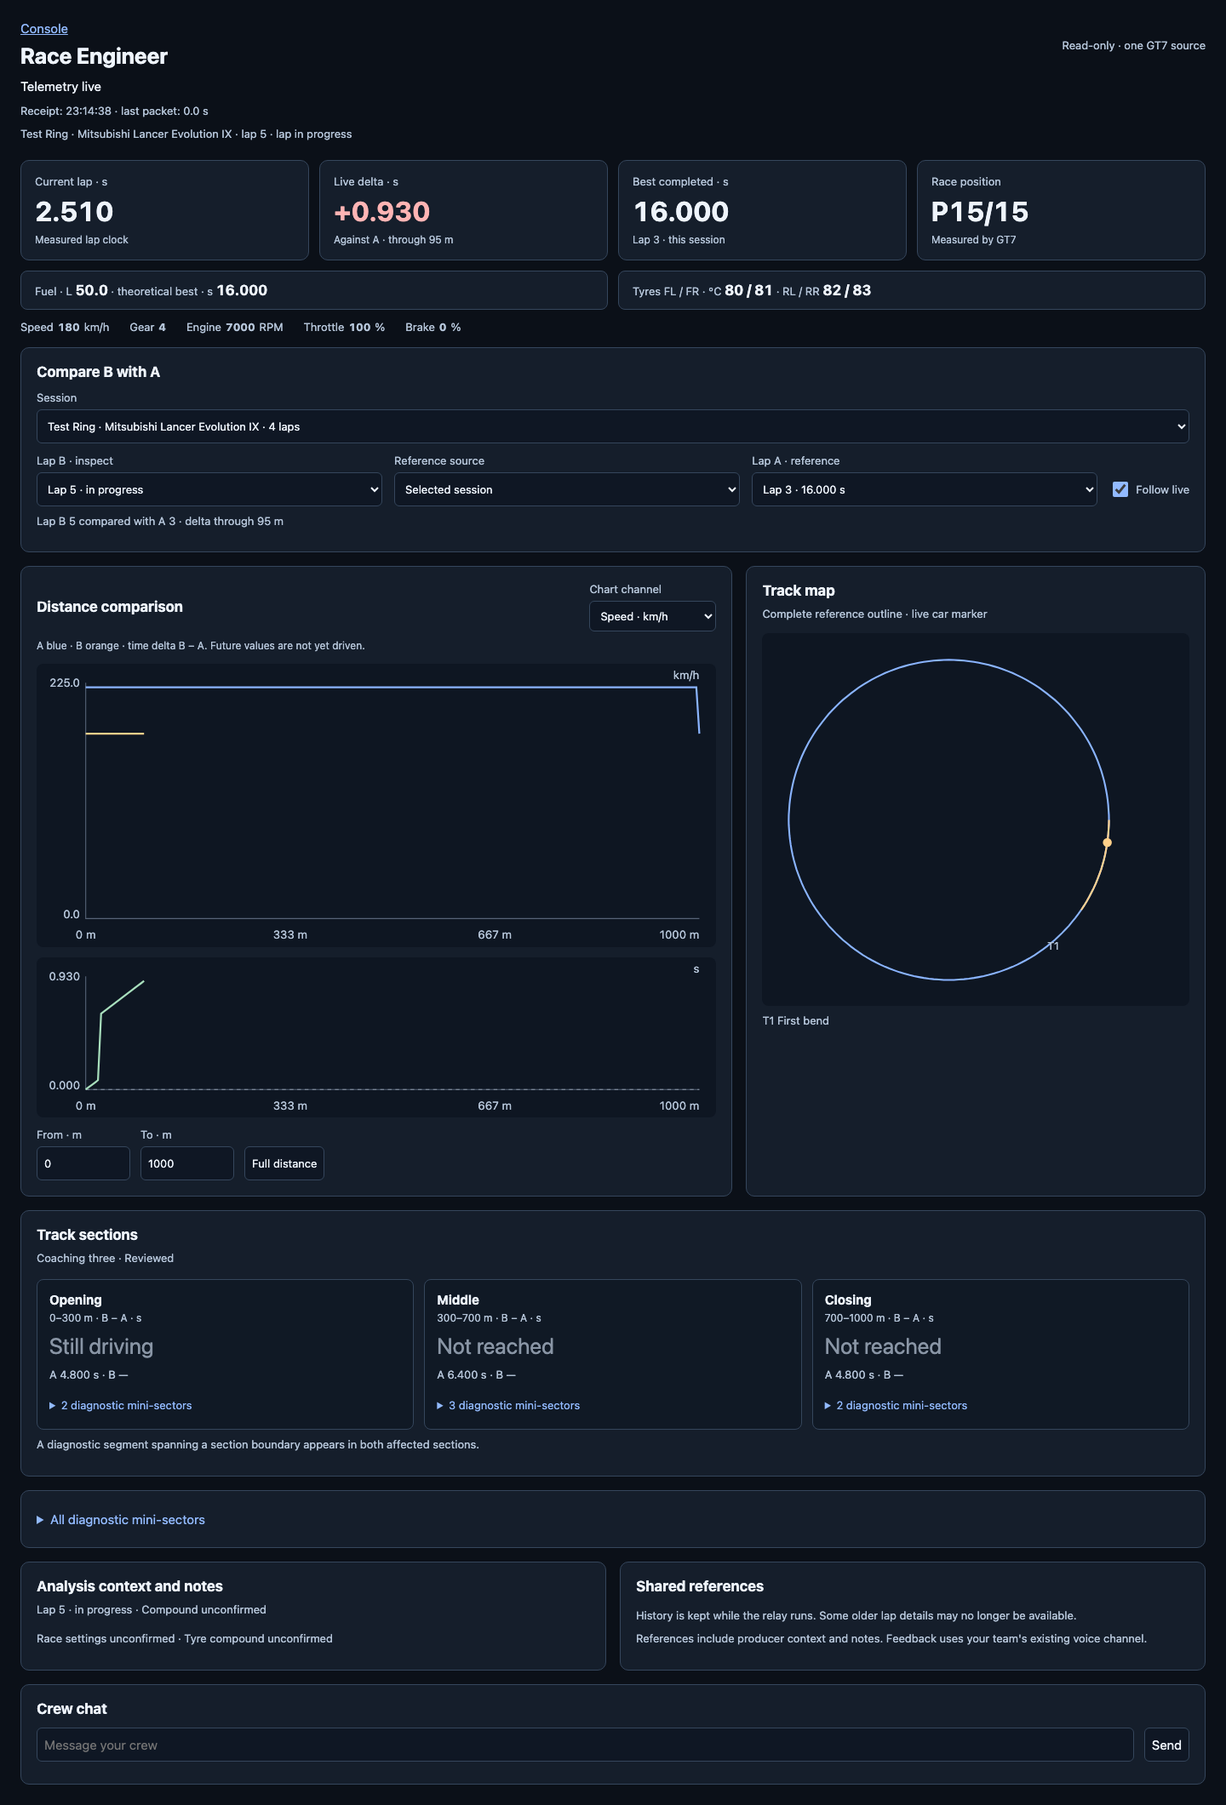
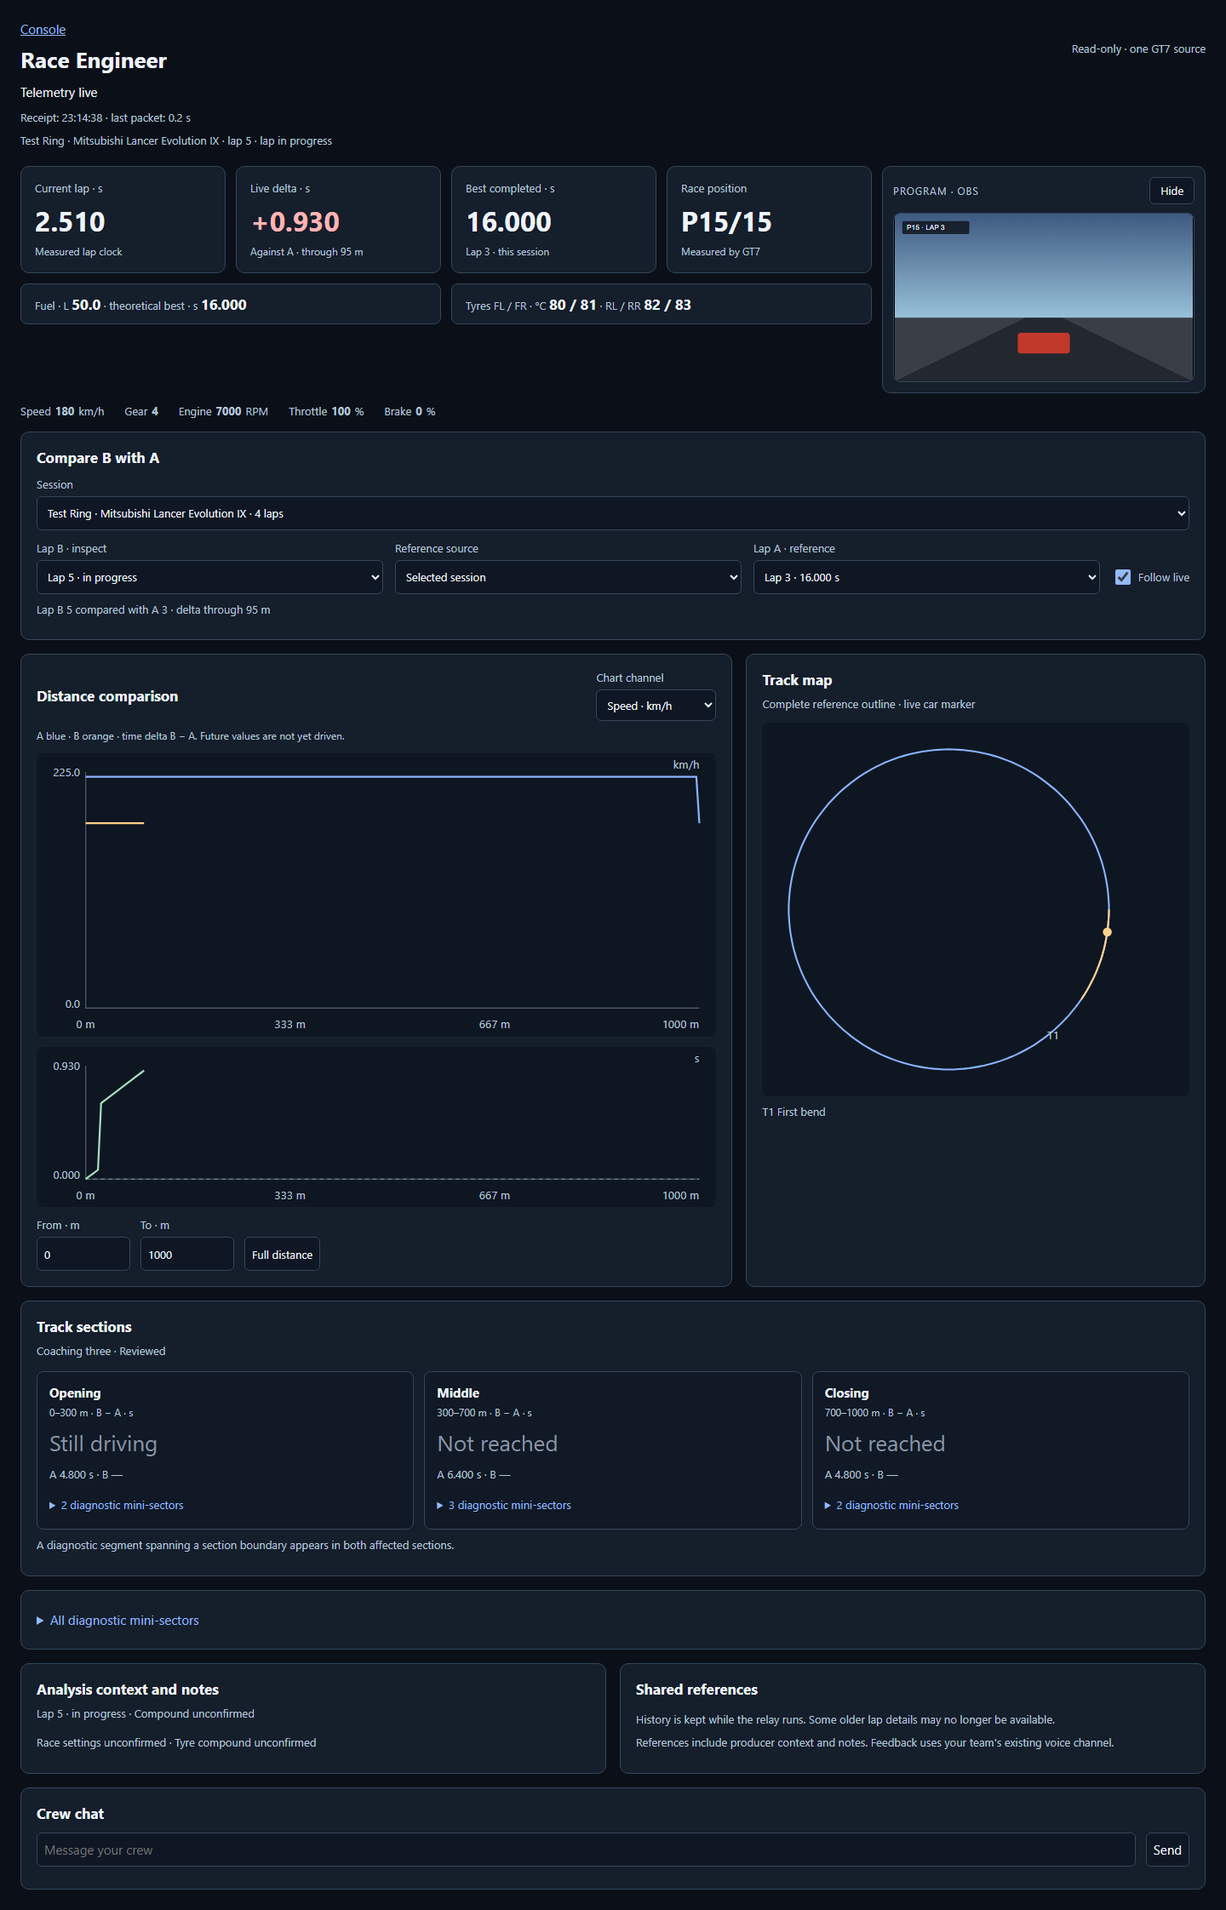
feat(console): show the OBS program still on the Race Engineer desk
A Program tile beside the live instruments polls /cockpit/program (any
console role), the still Race Control already shows. Hide folds it to a
bar and is remembered per browser; polling runs only while the tile is
open, the tab is visible and access holds, with one self-rescheduling
probe whose generation drops a request in flight on Hide.

diff --git a/src/console/race-engineer.html b/src/console/race-engineer.html
@@ -5,13 +5,14 @@
 @media(max-width:1100px){main{padding:18px}.tile{padding:14px}.tile strong{font-size:28px}.compare{grid-template-columns:1fr 1fr 1fr}.check{grid-column:1/-1}.plots{grid-template-columns:1.5fr 1fr}.plot-head{flex-wrap:wrap}.section{padding:12px}}
 @media(max-width:600px){main{padding:12px}header{align-items:start;flex-wrap:wrap;gap:8px}h1{font-size:23px}.headline{grid-template-columns:1fr 1fr;gap:8px;margin-top:14px}.headline .tile>span{min-height:2.4em;line-height:1.2}.tile strong{font-size:28px}.tile{padding:12px}.support{grid-template-columns:1fr;gap:8px}.inputs{gap:12px;font-size:12px}.card{padding:12px}.compare{grid-template-columns:1fr;gap:10px}.check{grid-column:auto}.plots,.context{grid-template-columns:1fr}.section-row{grid-template-columns:1fr}.plot-head{flex-wrap:nowrap}.plot-head select{max-width:135px}.section details{margin-top:8px}summary{padding:14px 0;min-height:44px}.check{min-height:44px}.zoom label{width:82px}.zoom{gap:8px}.zoom button{flex:1;padding:6px}.chat{flex-wrap:wrap}.chat input{width:100%}}
 
-[hidden]{display:none!important}.dim{opacity:.6}.value strong{font-variant-numeric:tabular-nums}.not-driven{color:#8995a5;font-weight:400}.support strong{font-size:17px}.scroll{overflow-x:auto}.source-row{margin:12px 0}.source-row select{width:100%}#notice:empty,#new-laps:empty,#larger-sectors:empty{display:none}#notes{padding-left:18px}#references{padding-left:18px}#chatlog{max-height:240px;overflow-y:auto}.inputs .value{display:flex;gap:5px;align-items:center}.mini-details{margin-top:16px}.section table{font-size:12px}.section header{display:block}.section h3{font-size:15px;margin:0}.section .section-delta{display:block;font-size:26px;margin:10px 0}.section small{font-size:12px;color:var(--muted)}
+[hidden]{display:none!important}.dim{opacity:.6}.value strong{font-variant-numeric:tabular-nums}.not-driven{color:#8995a5;font-weight:400}.support strong{font-size:17px}.scroll{overflow-x:auto}.source-row{margin:12px 0}.source-row select{width:100%}#notice:empty,#new-laps:empty,#larger-sectors:empty{display:none}.live-grid{display:grid;grid-template-columns:minmax(0,1fr) minmax(280px,380px);gap:12px;margin-top:20px;align-items:start}.live-grid:has(.program-card.off){grid-template-columns:minmax(0,1fr) auto}.live-grid .headline{margin-top:0}.program-card{padding:12px}.program-head{display:flex;justify-content:space-between;align-items:center;gap:10px}.tile .program-head span{font-size:12px;letter-spacing:.08em;text-transform:uppercase}.program-head button{min-height:32px;padding:4px 12px;font-size:13px}.program-frame{position:relative;margin-top:10px;aspect-ratio:16/9;background:#000;border:1px solid var(--edge);border-radius:8px;overflow:hidden;display:flex;align-items:center;justify-content:center}.program-frame img{width:100%;height:100%;object-fit:contain;display:none}.program-frame.loaded img{display:block}.tile .program-frame span{font-size:12px}.program-frame.loaded span{display:none}.program-card.off .program-frame{display:none}@media(max-width:1100px){.live-grid{grid-template-columns:minmax(0,1fr) minmax(220px,300px)}}@media(max-width:600px){.live-grid,.live-grid:has(.program-card.off){grid-template-columns:1fr;margin-top:14px}}#notes{padding-left:18px}#references{padding-left:18px}#chatlog{max-height:240px;overflow-y:auto}.inputs .value{display:flex;gap:5px;align-items:center}.mini-details{margin-top:16px}.section table{font-size:12px}.section header{display:block}.section h3{font-size:15px;margin:0}.section .section-delta{display:block;font-size:26px;margin:10px 0}.section small{font-size:12px;color:var(--muted)}
 </style><script>window.RC_API_BASE="__RC_API_BASE__";window.RC_API=p=>(window.RC_API_BASE||'')+p;if(location.search)history.replaceState({},'',location.pathname);</script></head><body><main>
 <header><div><a href="/console">Console</a><h1>Race Engineer</h1></div><span class="sub">Read-only · one GT7 source</span></header>
 <p id="status" role="status">Checking access…</p><p id="receipt" class="sub">Waiting for measured telemetry</p><p id="notice" role="status"></p>
 <div id="protected" hidden>
 <section aria-label="Live instruments">
 <p id="source-state" class="sub"></p>
+<div class="live-grid"><div class="live-main">
 <div id="instruments" class="headline">
 <div class="tile value"><span>Current lap · s</span><strong id="lap-time">Unavailable</strong><small>Measured lap clock</small></div>
 <div class="tile value"><span>Live delta · s</span><strong id="delta">Unavailable</strong><small id="delta-note">Against the selected reference</small></div>
@@ -19,6 +20,7 @@
 <div class="tile value"><span>Race position</span><strong id="race-position">Unavailable</strong><small>Measured by GT7</small></div>
 </div>
 <div class="support"><div class="value"><span class="sub">Fuel · L </span><strong id="fuel">Unavailable</strong><span class="sub"> · theoretical best · s </span><strong id="theory">Unavailable</strong></div><div class="value"><span class="sub">Tyres FL / FR · °C </span><strong id="tyres-front">Unavailable</strong><span class="sub"> · RL / RR </span><strong id="tyres-rear">Unavailable</strong></div></div>
+</div><aside id="program-card" class="tile program-card" aria-label="Program output"><div class="program-head"><span>Program · OBS</span><button id="program-toggle" type="button" aria-controls="program-frame" aria-expanded="true">Hide</button></div><div id="program-frame" class="program-frame"><img id="program" alt="Program output still"><span id="program-note">Loading program</span></div></aside></div>
 <div class="inputs"><span class="value">Speed <strong id="speed">Unavailable</strong><span data-unit-for="speed">km/h</span></span><span class="value">Gear <strong id="gear">Unavailable</strong></span><span class="value">Engine <strong id="rpm">Unavailable</strong><span data-unit-for="rpm">RPM</span></span><span class="value">Throttle <strong id="throttle">Unavailable</strong><span data-unit-for="throttle">%</span></span><span class="value">Brake <strong id="brake">Unavailable</strong><span data-unit-for="brake">%</span></span></div>
 </section>
 <section class="card"><h2>Compare B with A</h2><div class="source-row"><label>Session<select id="session"></select></label></div><div class="compare">
@@ -44,7 +46,7 @@ let timer;
 function showDelta(value,distance){const el=$('delta');el.textContent=signed(value);$('delta-note').textContent=Number.isFinite(value)&&Number.isFinite(distance)?`Against A · through ${num(distance,0)} m`:'Against the selected reference';el.classList.toggle('gain',Number.isFinite(value)&&value<0);el.classList.toggle('loss',Number.isFinite(value)&&value>0);}
 function say(text){$('notice').textContent=text;}
 function clearPlots(clearOutline=true){if(clearOutline){state.sectionView='';state.sectionOpen.clear();state.sectionFocus=null;}else{const active=document.activeElement;state.sectionFocus=null;for(const details of $('larger-sectors').querySelectorAll('details[data-section-index]')){const index=details.dataset.sectionIndex;if(details.open)state.sectionOpen.add(index);else state.sectionOpen.delete(index);if(details.querySelector('summary')===active)state.sectionFocus=index;}}$('selection-summary').textContent=state.note||'Waiting for selected lap detail';state.mapFrame=null;$('map-turns').textContent='';if(clearOutline)state.outline=null;for(const id of ['chart','delta-chart','map'])$(id).replaceChildren();$('sectors').tBodies[0].replaceChildren();showDelta(null);$('context').textContent='No selected lap';$('notes').replaceChildren();$('limitations').textContent='';$('larger-sectors').replaceChildren();state.detail=null;state.pair=null;}
-function stop(message){state.stopped=true;state.note='';state.epoch++;clearInterval(timer);for(const c of state.controllers)c.abort();state.controllers.clear();state.snapshot=null;state.laps=[];state.sessions=[];state.refs=[];state.refLaps=[];state.a=state.b=state.session=state.refSource='';state.zoom=null;state.known.clear();state.connected=false;clearPlots();$('protected').hidden=true;for(const id of ['references','notes','chatlog','larger-sectors','session','lap-a','lap-b','reference-source'])$(id).replaceChildren();for(const el of document.querySelectorAll('.value strong'))el.textContent='Unavailable';$('best-note').textContent='Eligible completed laps';for(const id of ['source-state','history-state','new-laps'])$(id).textContent='';$('chatin').value='';$('context').textContent='';$('limitations').textContent='';$('receipt').textContent='';$('status').textContent=message;}
+function stop(message){state.stopped=true;pgmHalt();$('program').removeAttribute('src');$('program-frame').classList.remove('loaded');state.note='';state.epoch++;clearInterval(timer);for(const c of state.controllers)c.abort();state.controllers.clear();state.snapshot=null;state.laps=[];state.sessions=[];state.refs=[];state.refLaps=[];state.a=state.b=state.session=state.refSource='';state.zoom=null;state.known.clear();state.connected=false;clearPlots();$('protected').hidden=true;for(const id of ['references','notes','chatlog','larger-sectors','session','lap-a','lap-b','reference-source'])$(id).replaceChildren();for(const el of document.querySelectorAll('.value strong'))el.textContent='Unavailable';$('best-note').textContent='Eligible completed laps';for(const id of ['source-state','history-state','new-laps'])$(id).textContent='';$('chatin').value='';$('context').textContent='';$('limitations').textContent='';$('receipt').textContent='';$('status').textContent=message;}
 class AccessLost extends Error{}
 class ReferenceLost extends Error{}
 class SourceUnavailable extends Error{}
@@ -141,7 +143,7 @@ function render(){const B=state.detail,pair=state.pair,outline=pair?.a?.trace_co
  renderSections(B,A,pair,observed);
 }
 function revoke(message){state.epoch++;state.refSource='';state.refLaps=[];if(state.a.startsWith('r:'))state.a='';if(state.b.startsWith('r:')){state.b=state.snapshot?.current?.id||'';state.session=state.snapshot?.session_id||'';}clearPlots();say(message||'Shared reference was revoked or removed. Its protected view has been cleared.');}
-async function access(){const data=await request('/race-engineer/access');state.analysisAvailable=!!data.analysis_available;state.refs=data.references||[];$('references').replaceChildren();for(const r of state.refs){const li=document.createElement('li');li.textContent=r.label;$('references').append(li);}if(state.refSource&&!state.refs.some(r=>r.id===state.refSource))revoke();$('protected').hidden=false;return data;}
+async function access(){const data=await request('/race-engineer/access');state.analysisAvailable=!!data.analysis_available;state.refs=data.references||[];$('references').replaceChildren();for(const r of state.refs){const li=document.createElement('li');li.textContent=r.label;$('references').append(li);}if(state.refSource&&!state.refs.some(r=>r.id===state.refSource))revoke();$('protected').hidden=false;pgmSync();return data;}
 async function selection(){const epoch=state.epoch,a=state.a,b=state.b;if(!b)return;
  const latest=state.laps.filter(r=>r.session_id===state.session&&r.state==='confirmed'&&r.trace_complete).at(-1);
  const outlineId=a||latest?.id;
@@ -183,5 +185,14 @@ for(const id of ['zoom-from','zoom-to'])$(id).addEventListener('change',()=>{con
 $('zoom-reset').addEventListener('click',()=>{state.zoom=null;render();});
 addEventListener('resize',()=>{cancelAnimationFrame(state.resizeFrame);state.resizeFrame=requestAnimationFrame(render);});
 $('chat-form').addEventListener('submit',async e=>{e.preventDefault();const text=$('chatin').value.trim();if(!text||state.stopped)return;try{await request('/chat/send',{},'POST',{text});$('chatin').value='';await chat();}catch(e){if(!(e instanceof AccessLost))$('chat-status').textContent='Crew message could not be sent';}});
+// Program still: cache-busted OBS stills from the cockpit endpoint, like Race Control. One
+// self-rescheduling probe; a generation bump drops a probe still in flight on Hide.
+const PGM_KEY='re_program_open',pgm={gen:0,timer:0,running:false,open:true};try{pgm.open=localStorage.getItem(PGM_KEY)!=='0';}catch(e){}
+function pgmPoll(){const gen=pgm.gen,next=new Image();next.onload=()=>{if(gen!==pgm.gen)return;$('program').src=next.src;$('program-frame').classList.add('loaded');pgm.timer=setTimeout(pgmPoll,1500);};next.onerror=()=>{if(gen!==pgm.gen)return;$('program-frame').classList.remove('loaded');$('program-note').textContent='Program unavailable';pgm.timer=setTimeout(pgmPoll,3000);};next.src=RC_API('/cockpit/program')+'?_='+Date.now();}
+function pgmHalt(){pgm.gen++;pgm.running=false;clearTimeout(pgm.timer);pgm.timer=0;}
+function pgmWanted(){return pgm.open&&!state.stopped&&!$('protected').hidden&&document.visibilityState!=='hidden';}
+function pgmSync(){$('program-card').classList.toggle('off',!pgm.open);$('program-toggle').textContent=pgm.open?'Hide':'Show';$('program-toggle').setAttribute('aria-expanded',String(pgm.open));if(!pgmWanted())pgmHalt();else if(!pgm.running){pgm.running=true;pgmPoll();}}
+$('program-toggle').addEventListener('click',()=>{pgm.open=!pgm.open;try{localStorage.setItem(PGM_KEY,pgm.open?'1':'0');}catch(e){}pgmSync();});
+document.addEventListener('visibilitychange',pgmSync);
 window.EngineerDesk={state,tick,age};timer=setInterval(tick,500);setInterval(age,250);tick();
 </script></body></html>

diff --git a/tests/test_engineer_program_still.py b/tests/test_engineer_program_still.py
@@ -1,0 +1,89 @@
+#!/usr/bin/env python3
+"""The Race Engineer desk's program still: markup anchors plus the poll lifecycle,
+run under node when it is installed (skipped otherwise; the e2e desk renders it).
+Run: python3 tests/test_engineer_program_still.py"""
+import os
+import shutil
+import subprocess
+
+HERE = os.path.dirname(os.path.abspath(__file__))
+PAGE = os.path.join(os.path.dirname(HERE), "src", "console", "race-engineer.html")
+
+
+def _html():
+    with open(PAGE, encoding="utf-8") as fh:
+        return fh.read()
+
+
+def _func_src(html, name):
+    i = html.index(f"function {name}(")
+    return html[i:html.index("\n", i)]
+
+
+def _run_js(src):
+    node = shutil.which("node")
+    if not node:
+        print("  (node not installed, JS check skipped)")
+        return None
+    return subprocess.run([node, "-"], input=src, capture_output=True, text=True,
+                          encoding="utf-8", errors="replace", check=True, timeout=30).stdout
+
+
+def t_program_card_sits_beside_the_live_instruments():
+    h = _html()
+    i, p, c = h.index('id="instruments"'), h.index('id="program-card"'), h.index("Compare B with A")
+    assert i < p < c, "the program still belongs to the live-instruments block, before the analysis"
+    assert 'id="program-toggle"' in h and 'aria-controls="program-frame"' in h
+
+
+def t_program_still_uses_the_any_tier_cockpit_endpoint():
+    # /cockpit/program is open to every console role, the engineer included; the
+    # director-only /preview/* routes are not.
+    body = _func_src(_html(), "pgmPoll")
+    assert "RC_API('/cockpit/program')" in body and "/preview/" not in body
+
+
+_HARNESS = r"""
+const probes = [], timers = [];
+class Image { constructor() { probes.push(this); } }
+const setTimeout = (fn) => { timers.push(fn); return timers.length; };
+const clearTimeout = id => { if (id) timers[id - 1] = null; };
+const live = () => timers.filter(Boolean).length;
+const mk = () => ({hidden: false, textContent: '', src: '', attrs: {},
+  setAttribute(k, v) { this.attrs[k] = v; }, removeAttribute(k) { delete this.attrs[k]; this.src = ''; },
+  classList: {s: new Set(), toggle(c, on) { on ? this.s.add(c) : this.s.delete(c); },
+              add(c) { this.s.add(c); }, remove(c) { this.s.delete(c); }}});
+const els = {}; const $ = id => els[id] || (els[id] = mk());
+const document = {visibilityState: 'visible'};
+const RC_API = p => p;
+const state = {stopped: false};
+const pgm = {gen: 0, timer: 0, running: false, open: true};
+"""
+
+
+def t_program_poll_runs_once_and_stops_when_hidden_or_revoked():
+    h = _html()
+    funcs = "\n".join(_func_src(h, n) for n in ("pgmPoll", "pgmHalt", "pgmWanted", "pgmSync"))
+    out = _run_js(_HARNESS + funcs + """
+pgmSync(); pgmSync();                       // the access poll calls this every tick
+const once = probes.length;
+probes[0].onload(); const polling = live();
+pgm.open = false; pgmSync(); const inFlight = probes.at(-1);
+const afterHide = live(), toggle = $('program-toggle').textContent;
+pgm.open = true; pgmSync(); probes.at(-1).onload();
+document.visibilityState = 'hidden'; pgmSync(); probes.at(-1).onload();
+const backgroundTab = live();
+document.visibilityState = 'visible'; pgmSync(); probes.at(-1).onerror();
+const note = $('program-note').textContent;
+state.stopped = true; pgmSync(); probes.at(-1).onload();
+console.log([once, polling, afterHide, toggle, backgroundTab, note, live()].join('|'));""")
+    if out is not None:
+        assert out.strip() == "1|1|0|Show|0|Program unavailable|0", \
+            f"one poll loop; HIDE, a background tab and lost access stop it: {out!r}"
+
+
+if __name__ == "__main__":
+    for name, fn in sorted(globals().items()):
+        if name.startswith("t_") and callable(fn):
+            fn(); print("ok", name)
+    print("ALL PASS")

diff --git a/tools/e2e-engineer-desk.py b/tools/e2e-engineer-desk.py
@@ -10,6 +10,15 @@ sys.path.insert(0,str(ROOT/'tools'))
 import e2e_visual
 from engineer_ui_fixture import Fixture, gate
 
+PROGRAM_SVG = ('<svg xmlns="http://www.w3.org/2000/svg" viewBox="0 0 1600 900">'
+               '<defs><linearGradient id="s" x2="0" y2="1"><stop offset="0" stop-color="#3d5a80"/>'
+               '<stop offset="1" stop-color="#98c1d9"/></linearGradient></defs>'
+               '<rect width="1600" height="560" fill="url(#s)"/><rect y="560" width="1600" height="340" fill="#3a3f47"/>'
+               '<path d="M0 900 L700 560 H900 L1600 900Z" fill="#23272e"/>'
+               '<rect x="660" y="640" width="280" height="110" rx="18" fill="#c0392b"/>'
+               '<rect x="40" y="40" width="360" height="70" rx="8" fill="#0b1018" opacity=".8"/>'
+               '<text x="64" y="88" font-family="sans-serif" font-size="38" fill="#eef4fc">P15 · LAP 3</text></svg>')
+
 
 async def main():
     from playwright.async_api import async_playwright
@@ -140,6 +149,10 @@ async def main():
                     assert fixture.live.flush(10)
                     await page.wait_for_function('() => document.getElementById("race-position").textContent === "P15/15"')
                     await page.locator('.mini-details summary').click()
+                    # The fixture has no OBS: give the program still a synthetic frame.
+                    await page.route('**/cockpit/program?*', lambda route: route.fulfill(
+                        content_type='image/svg+xml', body=PROGRAM_SVG))
+                    await page.wait_for_selector('#program-frame.loaded', timeout=8000)
                     for width,height,name in [(1440,1050,'desktop'),(1024,1100,'tablet'),(390,900,'phone')]:
                         await page.set_viewport_size({'width':width,'height':height})
                         await page.screenshot(path=str(ROOT/f'src/docs/wiki/images/console-race-engineer-{name}.png'),full_page=True)

diff --git a/src/docs/wiki/Race-Engineer.md b/src/docs/wiki/Race-Engineer.md
@@ -29,6 +29,11 @@ the distance the delta covers, the lap time difference, or why none is shown yet
 The delta tile names the distance it covers, the best tile names its lap. A loss
 carries a **+** sign, so gain and loss do not depend on color.
 
+The **Program · OBS** tile beside the live values shows a still of the running OBS
+program, refreshed about every 1.5 s, the same still Race Control shows. **Hide**
+folds it to a small bar and the browser remembers the choice. The still is only
+fetched while the tile is open and the tab is visible, and it stops with the access.
+
 The desk reads the existing single GT7 source of a solo POV profile. Speed, gear,
 RPM, throttle/brake, race position, observed lap time, fuel and tyre temperatures refresh roughly
 twice per second. Missing measurements say **Unavailable**, without their unit. The observed lap clock
